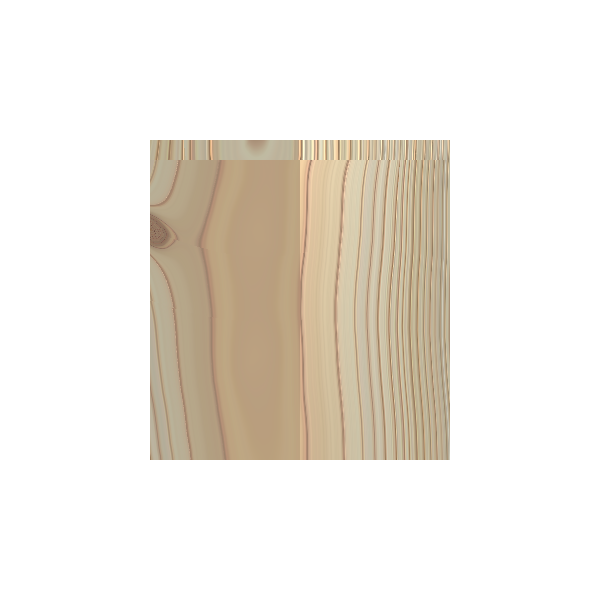
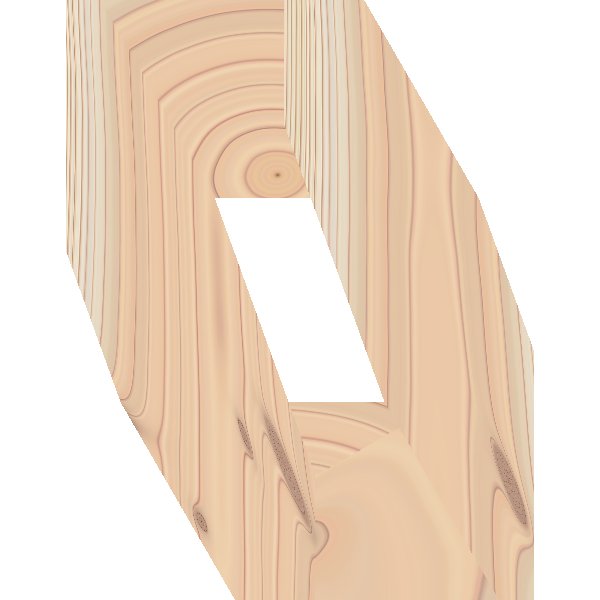
still have some problem in the scaling of cube

diff --git a/Alpha_version/src/setup/textureGenerator.py b/Alpha_version/src/setup/textureGenerator.py
@@ -44,7 +44,7 @@ def main():
 
     if not glfw.init():
         return
-    glfw.window_hint(glfw.VISIBLE, glfw.FALSE)
+    #glfw.window_hint(glfw.VISIBLE, glfw.FALSE)
     width = height = 600
     window = glfw.create_window(width, height, "Procedural Knots", None, None)
 
@@ -98,19 +98,19 @@ def main():
         OpenGL.GL.shaders.compileShader(FRAGMENT_SHADER, GL_FRAGMENT_SHADER))
 
     #Customize: Create a framebuffer and bind it
-    framebuffer = glGenFramebuffers(1)
-    glBindFramebuffer(GL_FRAMEBUFFER, framebuffer)
+    # framebuffer = glGenFramebuffers(1)
+    # glBindFramebuffer(GL_FRAMEBUFFER, framebuffer)
     #Customize: Create a texture to store the output
-    output_texture = glGenTextures(1)
-    glBindTexture(GL_TEXTURE_2D, output_texture)
-    glTexImage2D(GL_TEXTURE_2D, 0, GL_RGBA, 800, 600, 0, GL_RGBA, GL_UNSIGNED_BYTE, None)
+    # output_texture = glGenTextures(1)
+    # glBindTexture(GL_TEXTURE_2D, output_texture)
+    # glTexImage2D(GL_TEXTURE_2D, 0, GL_RGBA, width, height, 0, GL_RGBA, GL_UNSIGNED_BYTE, None)
     #Customize: Attach the texture to the framebuffer
-    glFramebufferTexture2D(GL_FRAMEBUFFER, GL_COLOR_ATTACHMENT0, GL_TEXTURE_2D, output_texture, 0)
+    # glFramebufferTexture2D(GL_FRAMEBUFFER, GL_COLOR_ATTACHMENT0, GL_TEXTURE_2D, output_texture, 0)
     #Customize: Check if the framebuffer is complete
-    if glCheckFramebufferStatus(GL_FRAMEBUFFER) != GL_FRAMEBUFFER_COMPLETE:
-        print("Error: Framebuffer is not complete!")
-        glfw.terminate()
-        exit()
+    # if glCheckFramebufferStatus(GL_FRAMEBUFFER) != GL_FRAMEBUFFER_COMPLETE:
+    #     print("Error: Framebuffer is not complete!")
+    #     glfw.terminate()
+    #     exit()
 
 
     ### LOAD TEXTURE MAPS ######################################################
@@ -169,14 +169,14 @@ def main():
     glUniformMatrix4fv(modelLoc, 1, GL_FALSE, model)
 
     # View matrix
-    rot_x = pyrr.Matrix44.from_x_rotation(190.00)
-    rot_z = pyrr.Matrix44.from_z_rotation(0.00)
+    rot_x = pyrr.Matrix44.from_x_rotation(2.0)
+    rot_z = pyrr.Matrix44.from_z_rotation(3.8)
     view = np.array(rot_x*rot_z);
     viewLoc = glGetUniformLocation(shader, "view")
     glUniformMatrix4fv(viewLoc, 1, GL_FALSE, view)
 
     # View position
-    view_pos_vec = np.array([0, 0, 3.0, 0.0],dtype=np.float32)
+    view_pos_vec = np.array([0.0, 0, 3.0, 0.0],dtype=np.float32)
     view_pos_vec = view*view_pos_vec;
     viewPosLoc = glGetUniformLocation(shader, "viewPos")
     glUniform3f(viewPosLoc, -1.5, 2.0, -1.0);
@@ -192,30 +192,30 @@ def main():
     glClearColor(1.0, 1.0, 1.0, 1.0)
     glEnable(GL_DEPTH_TEST)
 
-    #while not glfw.window_should_close(window):
+    while not glfw.window_should_close(window):
 
-    #glfw.poll_events()
-    glClear(GL_COLOR_BUFFER_BIT | GL_DEPTH_BUFFER_BIT)
+        glfw.poll_events()
+        glClear(GL_COLOR_BUFFER_BIT | GL_DEPTH_BUFFER_BIT)
 
-    # Pass time variable to fragment shader (for animation)
-    timeLoc = glGetUniformLocation(shader, "time")
-    #glUniform1f(timeLoc, glfw.get_time())
-    glUniform1f(timeLoc, 590.0)
+        # Pass time variable to fragment shader (for animation)
+        timeLoc = glGetUniformLocation(shader, "time")
+        #glUniform1f(timeLoc, glfw.get_time())
+        glUniform1f(timeLoc, 590.0)
 
-    # Draw mesh
-    glDrawElements(GL_TRIANGLES, len(indices), GL_UNSIGNED_INT,  None)
+        # Draw mesh
+        glDrawElements(GL_TRIANGLES, len(indices), GL_UNSIGNED_INT,  None)
 
-    # Swap buffers
-    glfw.swap_buffers(window)
+        # Swap buffers
+        glfw.swap_buffers(window)
 
     #Customize: Read the pixels from the framebuffer into a NumPy array
-    pixels = glReadPixels(0, 0, height, width, GL_RGBA, GL_UNSIGNED_BYTE)
-    image_data = np.frombuffer(pixels, dtype=np.uint8).reshape(height, width, 4)
-    imageio.imwrite("output.png", np.flipud(image_data))
-
-    glDeleteTextures(1, [output_texture])
-    glDeleteFramebuffers(1, [framebuffer])
-    glDeleteProgram(shader)
+    # pixels = glReadPixels(0, 0, height, width, GL_RGBA, GL_UNSIGNED_BYTE)
+    # image_data = np.frombuffer(pixels, dtype=np.uint8).reshape(height, width, 4)
+    # imageio.imwrite("output.png", np.flipud(image_data))
+    #
+    # glDeleteTextures(1, [output_texture])
+    # glDeleteFramebuffers(1, [framebuffer])
+    # glDeleteProgram(shader)
     glfw.terminate()
 
 if __name__ == "__main__":
